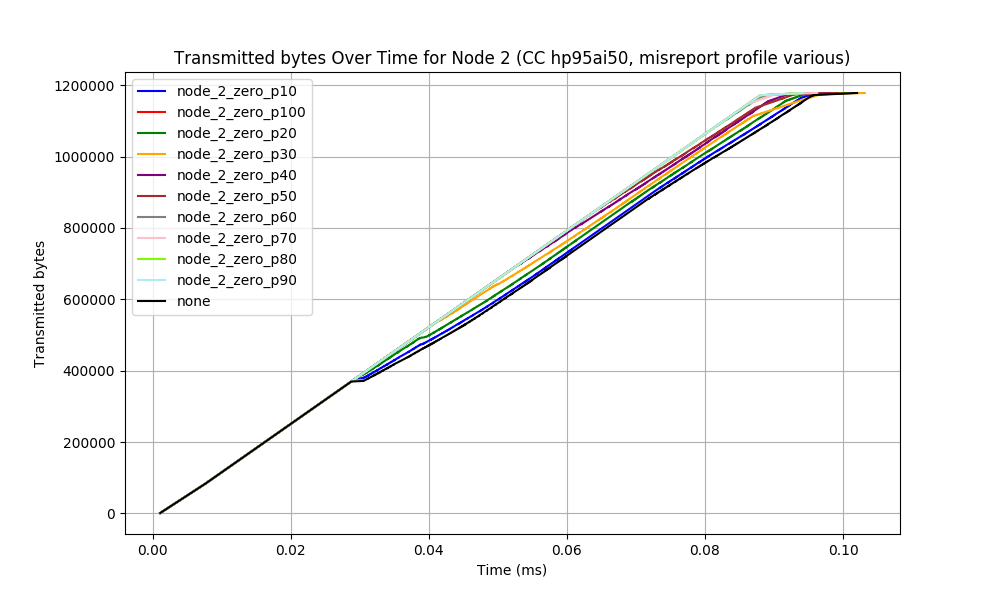
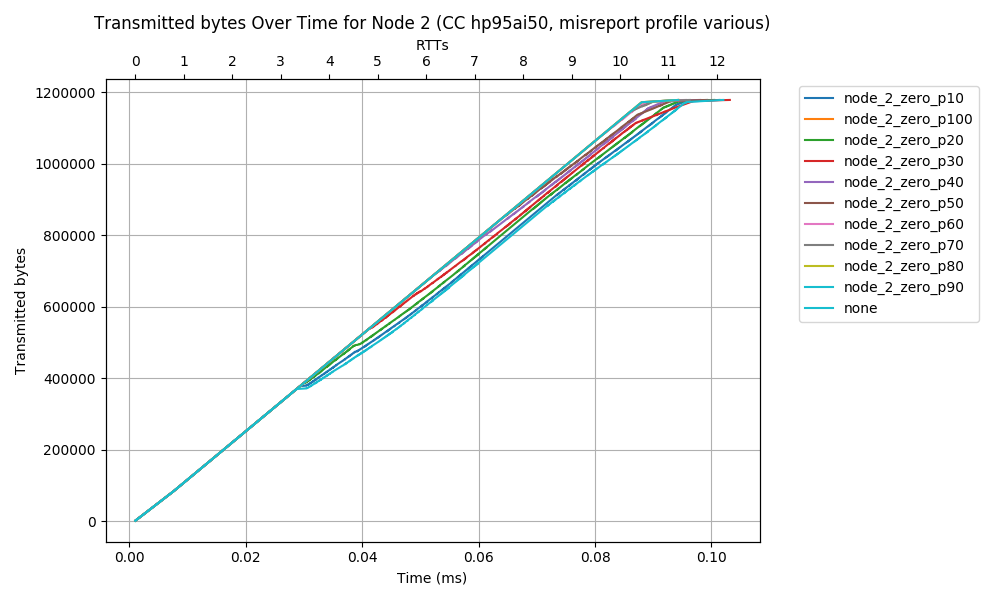
Run simulations with full qLen misreporting; re-run zero sims for consistent graphs

diff --git a/analysis/graph/stacked_diff_tx_bytes_graph.py b/analysis/graph/stacked_diff_tx_bytes_graph.py
@@ -51,10 +51,13 @@ if __name__ == '__main__':
     baseline_times_ms = [t / 1e6 for t in baseline_times]
     data_points_li.append(('none', baseline_times_ms, baseline_tx_bytes))
 
+    max_baseline_ts = max(baseline_times_ms)
     diff_points_li = []
     for misrep, times_ms, tx_bytes in data_points_li:
         truncated_times, diff_points = [], []
         for t, tx in zip(times_ms, tx_bytes):
+            if t > max_baseline_ts:
+                break
             baseline_tx = get_baseline_interpolation(t, baseline_times_ms, baseline_tx_bytes)
             truncated_times.append(t)
             diff_points.append(tx - baseline_tx)

diff --git a/simulation/scratch/third.cc b/simulation/scratch/third.cc
@@ -373,6 +373,11 @@ uint64_t zero_qlen_mapping(uint64_t actual_qlen){
 	return 0;
 }
 
+uint64_t full_qlen_mapping(uint64_t actual_qlen){
+	// printf("[zero_qlen_mapping] %lu\n", actual_qlen);
+	return 3000000000;
+}
+
 int main(int argc, char *argv[])
 {
 	clock_t begint, endt;
@@ -794,6 +799,7 @@ int main(int argc, char *argv[])
 		{"TRIPLE", &triple_qlen_mapping},
 		{"ADD", &additive_qlen_mapping},
 		{"ZERO", &zero_qlen_mapping},
+		{"FULL", &full_qlen_mapping},
 	};
 	
 

diff --git a/analysis/graph/run_qlen_to_util_graph.py b/analysis/graph/run_qlen_to_util_graph.py
@@ -18,6 +18,7 @@ VALID_BEHAVIORS = {
     'ZERO',
     'TRIPLE',
     'ADD',
+    'FULL',
 }
 
 def run_trace_reader_script(misrep_file_name, flow, topo):

diff --git a/simulation/run_prob_matrix.py b/simulation/run_prob_matrix.py
@@ -18,6 +18,7 @@ VALID_BEHAVIORS = {
     'ZERO',
     'TRIPLE',
     'ADD',
+    'FULL',
 }
 
 def generate_misrep_file(
